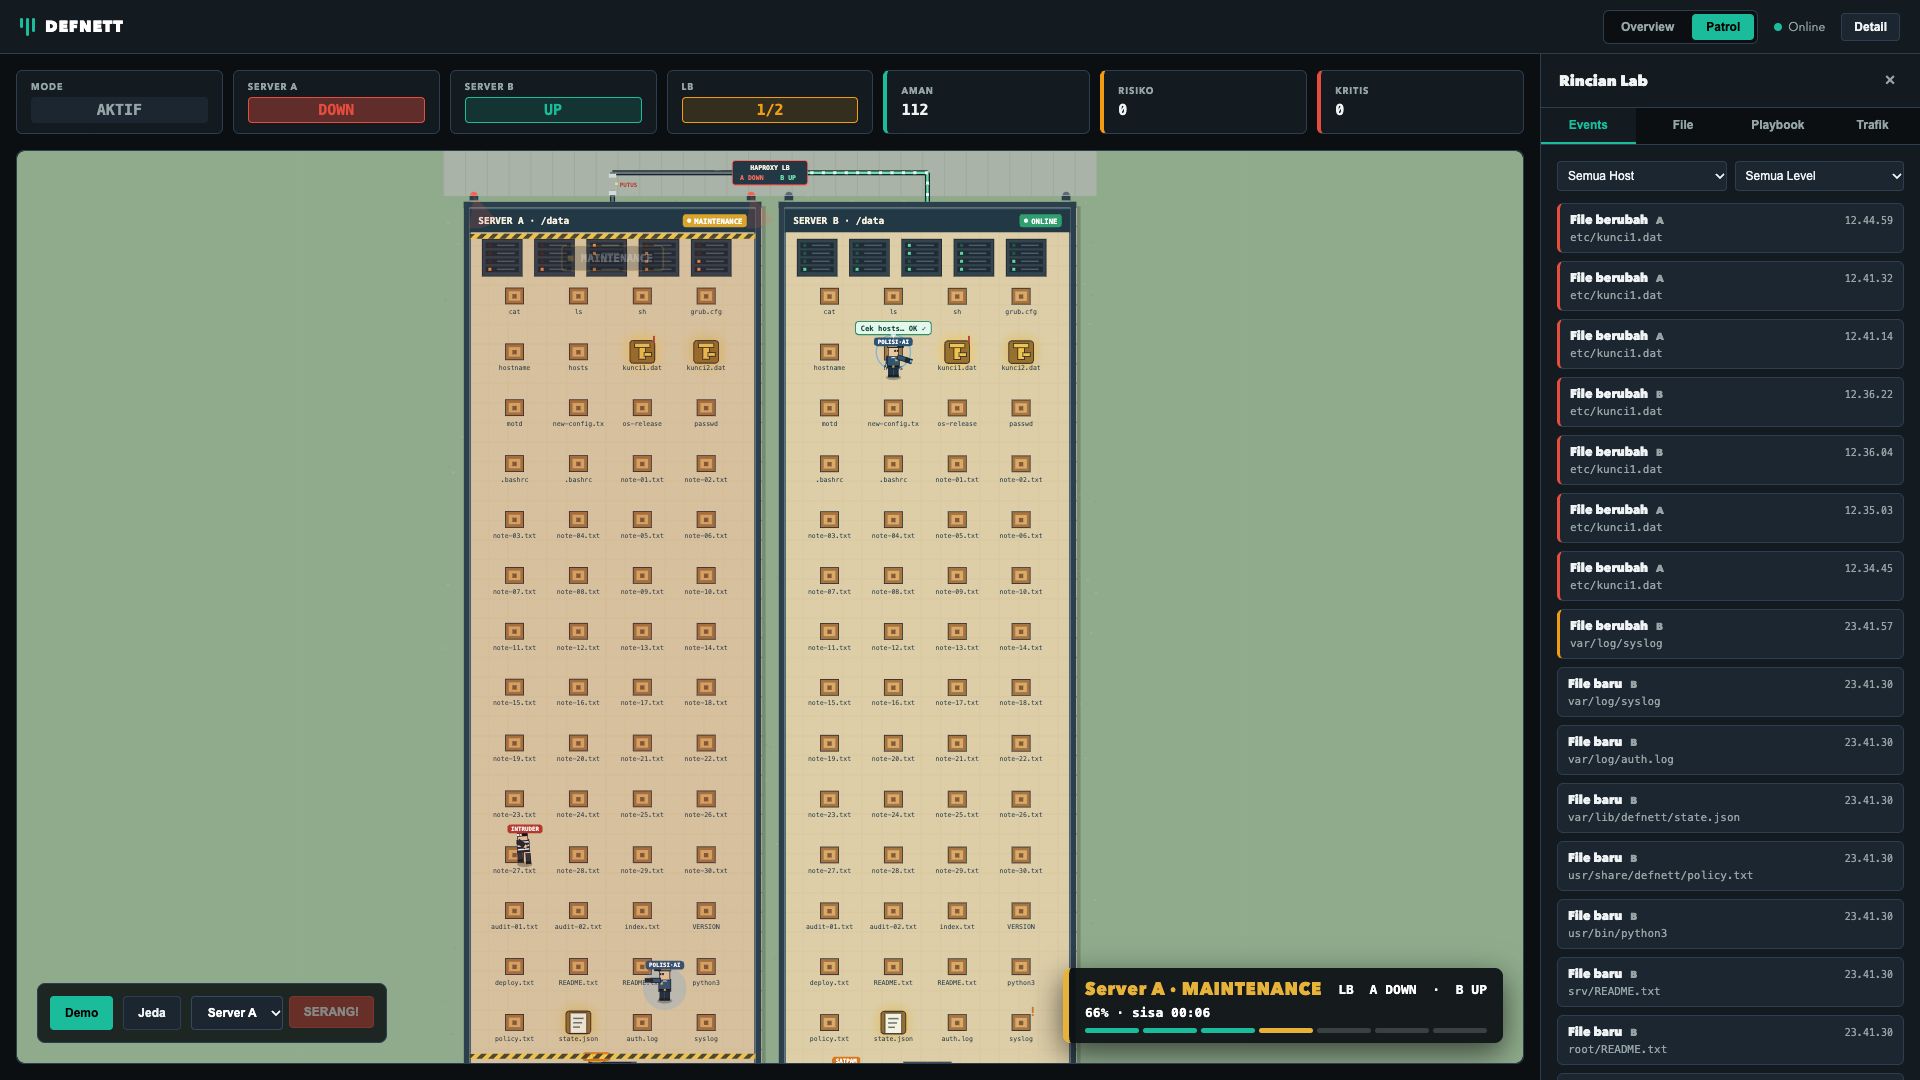
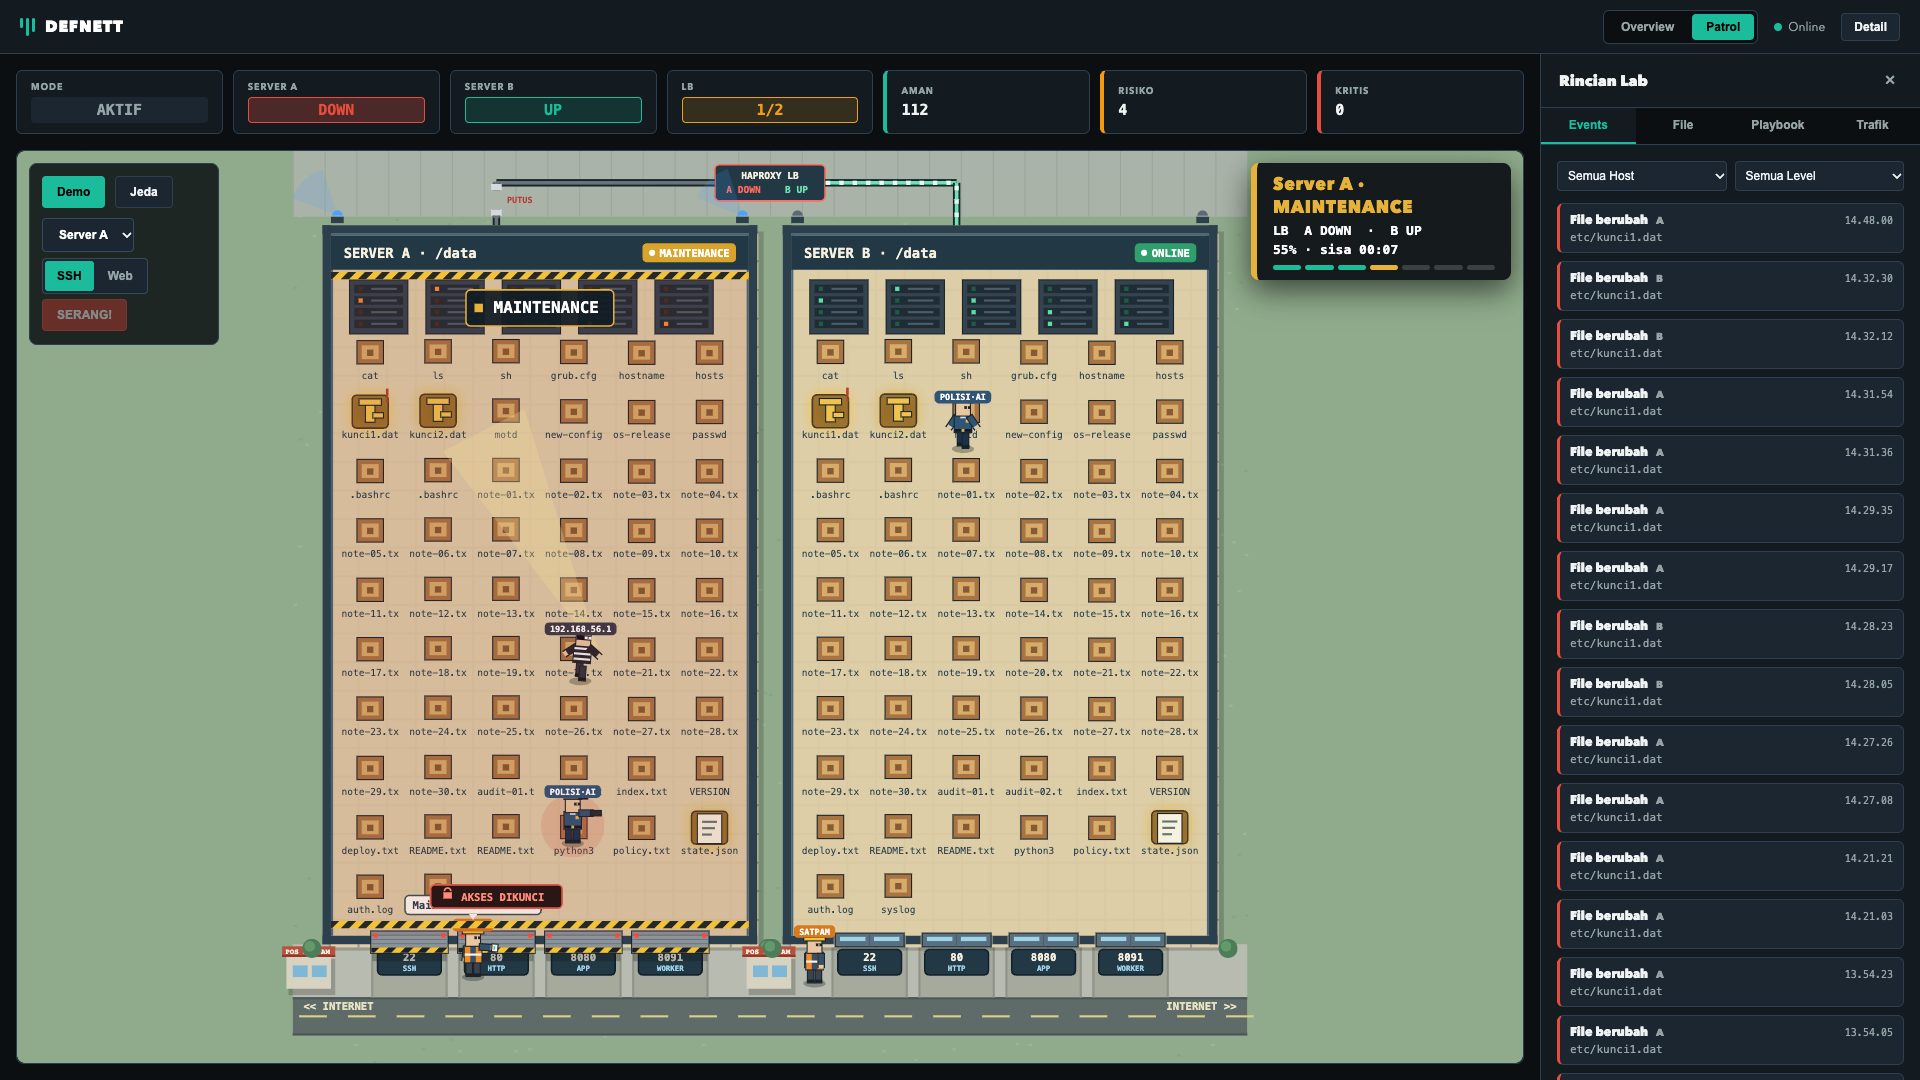
Perbarui screenshot: pintu per port dan serangan lewat SSH dan Web
- Screenshot Patrol memuat pintu sesuai port terbuka
- Serangan jalur SSH (pintu 22) dan jalur Web (pintu 80)
- README memakai gambar baru

diff --git a/README.md b/README.md
@@ -17,7 +17,7 @@ Overview:
 
 ![Overview](lab/screenshots/01-overview.png)
 
-Patrol:
+Patrol. Jumlah pintu tiap server mengikuti port yang benar-benar terbuka (`22 SSH`, `80 HTTP`, `8080 APP`, `8091 WORKER`):
 
 ![Patrol](lab/screenshots/02-patrol.png)
 
@@ -25,7 +25,11 @@ Tab File, menampilkan file system tiap server per folder:
 
 ![File system](lab/screenshots/03-file-system.png)
 
-Saat **Serang!** ditekan, Server A keluar dari HAProxy dan trafik pindah ke Server B:
+Tombol **Serang!** punya pilihan jalur **SSH** atau **Web**. Dengan jalur SSH, intruder masuk lewat pintu 22:
+
+![Intruder masuk lewat SSH](lab/screenshots/04-serangan-ssh-masuk.png)
+
+Setelah file kunci diubah, Server A keluar dari HAProxy dan trafik pindah ke Server B:
 
 ![Serangan di Patrol](lab/screenshots/04-serangan-patrol.png)
 
@@ -34,6 +38,12 @@ Saat **Serang!** ditekan, Server A keluar dari HAProxy dan trafik pindah ke Serv
 Setelah file dipulihkan dan health check lolos, Server A kembali ke rotasi:
 
 ![Pulih](lab/screenshots/06-pulih.png)
+
+Dengan jalur Web, intruder masuk lewat pintu 80, dan Server B yang keluar dari rotasi:
+
+![Intruder masuk lewat Web](lab/screenshots/09-serangan-web-masuk.png)
+
+![Serangan web di Patrol](lab/screenshots/10-serangan-web-patrol.png)
 
 ## Situs yang dilayani
 
